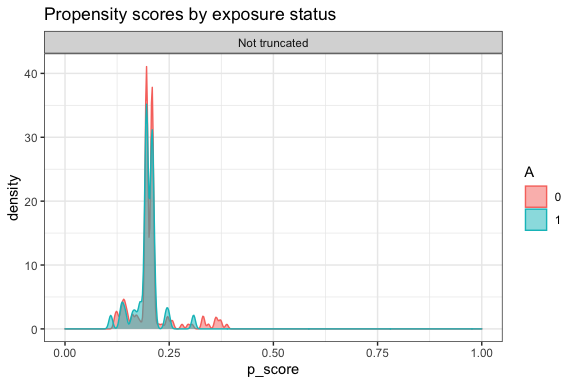
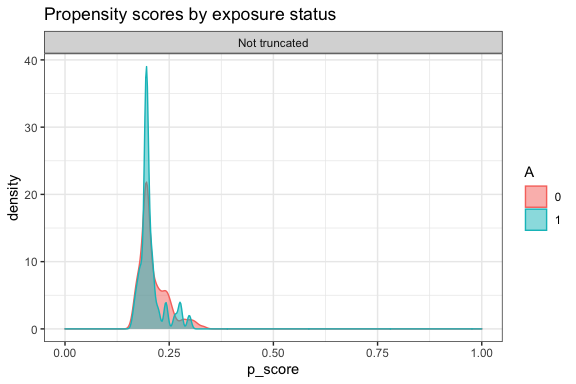
improve method, fix method chaining

diff --git a/README.md b/README.md
@@ -20,18 +20,34 @@ status](https://github.com/yqzhong7/AIPW/workflows/R-CMD-check/badge.svg)](https
 Naimi](https://github.com/ainaimi), [Gabriel
 Conzuelo](https://github.com/gconzuelo)
 
-## Installation
+## Contents:
+
+  - ##### [Installation](#Installation)
+
+  - ##### [Example](#Example)
+    
+      - ###### [Setup example data](#data)
+    
+      - ###### [One line version](#one_line)
+    
+      - ###### [Longer version](#details)
+        
+        1.  [Create an AIPW object](#constructor)
+        2.  [Fit the object](#fit)
+        3.  [Calculate average treatment effects](#ate)
+
+-----
+
+## <a id="Installation"></a>Installation
 
 ``` r
 install.packages("remotes")
 remotes::install_github("yqzhong7/AIPW")
 ```
 
------
+## <a id="Example"></a>Example
 
-## Example
-
-### Setup example data
+### <a id="data"></a>Setup example data
 
 ``` r
 set.seed(888)
@@ -52,9 +68,42 @@ covariates.g <- matrix(c(rbinom(N,1,0.4),
 # covariates.g <- c(rbinom(N,1,0.4)) #a vector of a single covariate is also supported
 ```
 
-### Create an AIPW object
+### <a id="one_line"></a>One line version (Method chaining from R6class)
 
-#### Use [SuperLearner](https://cran.r-project.org/web/packages/SuperLearner/index.html) libraries (reference: [Guide to SuperLearner](https://cran.r-project.org/web/packages/SuperLearner/vignettes/Guide-to-SuperLearner.html))
+``` r
+library(AIPW)
+library(SuperLearner)
+#> Loading required package: nnls
+#> Super Learner
+#> Version: 2.0-26
+#> Package created on 2019-10-27
+library(ggplot2)
+AIPW_SL <- AIPW$new(Y= outcome,
+                    A= exposure,
+                    W.Q=covariates.Q, 
+                    W.g=covariates.g,
+                    Q.SL.library = c("SL.mean","SL.glm"),
+                    g.SL.library = c("SL.mean","SL.glm"),
+                    k_split = 3,
+                    verbose=FALSE)$
+  fit()$
+  calculate_result(g.bound = 0.25)$
+  plot.p_score()
+#>                 Estimate    SE 95% LCL  95% UCL   N
+#> Risk Difference   -0.267 0.132 -0.5250 -0.00817 200
+#> Risk Ratio         0.393 0.413  0.1748  0.88221 200
+#> Odds Ratio         0.266 0.616  0.0797  0.88957 200
+```
+
+![](man/figures/one_line-1.png)<!-- -->
+
+### <a id="details"></a>A slightly longer version
+
+#### 1\. <a id="constructor"></a>Create an AIPW object
+
+  - ##### Use [SuperLearner](https://cran.r-project.org/web/packages/SuperLearner/index.html) libraries (reference: [Guide to SuperLearner](https://cran.r-project.org/web/packages/SuperLearner/vignettes/Guide-to-SuperLearner.html))
+
+<!-- end list -->
 
 ``` r
 library(AIPW)
@@ -74,7 +123,9 @@ AIPW_SL <- AIPW$new(Y= outcome,
                     verbose=FALSE)
 ```
 
-#### Use [sl3](https://tlverse.org/sl3/index.html) libraries (reference: [Intro to sl3](https://tlverse.org/sl3/articles/intro_sl3.html))
+  - ##### Use [sl3](https://tlverse.org/sl3/index.html) libraries (reference: [Intro to sl3](https://tlverse.org/sl3/articles/intro_sl3.html))
+
+<!-- end list -->
 
 ``` r
 library(AIPW)
@@ -101,7 +152,10 @@ AIPW_sl3 <- AIPW$new(Y= outcome,
                     verbose=FALSE)
 ```
 
-### Fit the data to the AIPW object
+#### 2\. <a id="fit"></a>Fit the AIPW object
+
+This step will fit the data stored in the AIPW object to obtain
+estimates for later average treatment effect calculations.
 
 ``` r
 #fit the AIPW_SL object
@@ -110,9 +164,11 @@ AIPW_SL$fit()
 # AIPW_sl3$fit()
 ```
 
-### Calculate average treatment effects
+#### 3\. <a id="ate"></a>Calculate average treatment effects
 
-#### Check the balance of propensity scores by exposure status
+  - ##### Check the balance of propensity scores by exposure status
+
+<!-- end list -->
 
 ``` r
 library(ggplot2)
@@ -122,21 +178,25 @@ AIPW_SL$plot.p_score()
 
 ![](man/figures/ps_raw-1.png)<!-- -->
 
-#### Estimate the ATE with propensity scores truncation
+  - ##### Estimate the ATE with propensity scores truncation
+
+<!-- end list -->
 
 ``` r
 #estimate the average causal effects from the fitted AIPW_SL object 
 AIPW_SL$calculate_result(g.bound = 0.25) #propensity score truncation 
-#>                 Estimate    SE 95% LCL  95% UCL   N
-#> Risk Difference   -0.267 0.132 -0.5250 -0.00817 200
-#> Risk Ratio         0.393 0.413  0.1748  0.88221 200
-#> Odds Ratio         0.266 0.616  0.0797  0.88957 200
+#>                 Estimate    SE 95% LCL 95% UCL   N
+#> Risk Difference   -0.253 0.131 -0.5096 0.00366 200
+#> Risk Ratio         0.423 0.386  0.1986 0.90012 200
+#> Odds Ratio         0.291 0.591  0.0915 0.92867 200
 
 #estimate the average causal effects from the fitted AIPW_sl3 object 
 # AIPW_sl3$calculate_result(g.bound = 0.25) #propensity score truncation 
 ```
 
-#### Check the balance of propensity scores by exposure status after truncation
+  - ##### Check the balance of propensity scores by exposure status after truncation
+
+<!-- end list -->
 
 ``` r
 AIPW_SL$plot.p_score()
